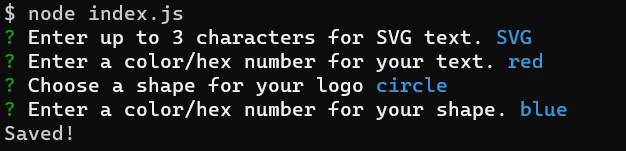
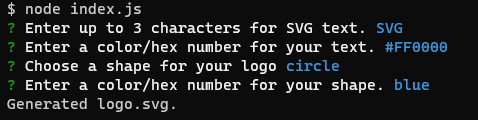
Made minor change to console log and updated walkthrough video

diff --git a/index.js b/index.js
@@ -54,7 +54,7 @@ const questions = [
 function writeToFile(svgContent) {
     fs.writeFile(`./examples/logo.svg`, svgContent, (err) => {
                 if (err) throw err;
-                console.log("Saved!");
+                console.log("Generated logo.svg.");
             });
 }
 

diff --git a/README.md b/README.md
@@ -34,10 +34,10 @@ THEN I am shown a 300x200 pixel image that matches the criteria I entered
   * User-entered color is used as the SVG text color
   * User-selected shape is used as the SVG output shape
   * User-entered color is used as the SVG shape color
-* Sample output is saved in the examples folder
+* Sample output SVG file is saved in the examples folder
 
 ## Link to walkthrough tutorial
-[SVG Logo Maker Walkthrough](https://drive.google.com/file/d/1KuGVTMd-5G66gyP1AdIoCPtMhW84EZl-/view?usp=share_link)
+[SVG Logo Maker Walkthrough](https://drive.google.com/file/d/15GOJxDSz0QwNd3vxMNHbGLJ95I2trxii/view?usp=share_link)
 
 ## Screenshots
 <img src="./assets/images/Screenshot1.png">  
